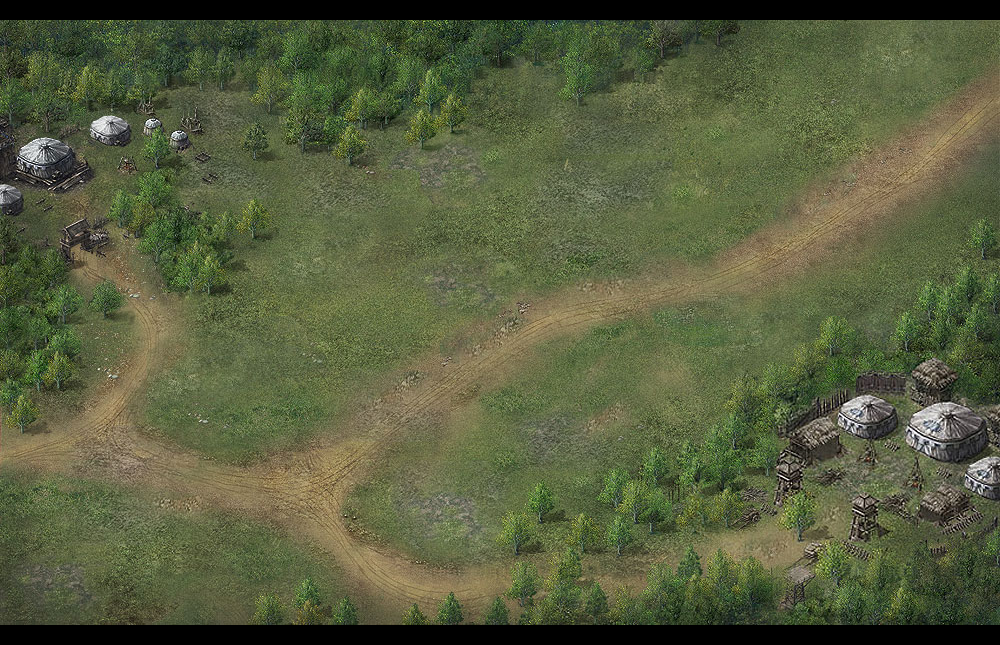
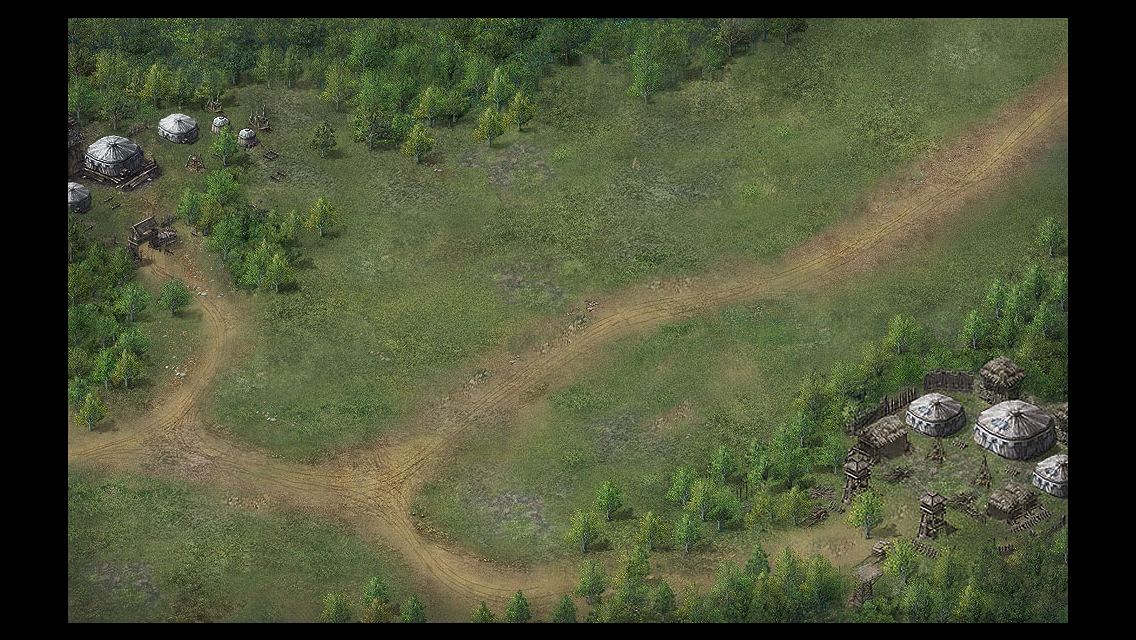
offset position configure

diff --git a/struggle of soldier/Classes/View_GameLand.cpp b/struggle of soldier/Classes/View_GameLand.cpp
@@ -23,6 +23,7 @@ GameLandView::GameLandView()
 	mLayout = NULL;
 	mDebugText = NULL;
 	mMapDragPanel = NULL;
+	mMapBGPanel = NULL;
 	mMapBGImageView = NULL;
 	gGameLandView = this;
 	gpLastSelectGrid = NULL;
@@ -68,7 +69,20 @@ bool GameLandView::init()
 	mBackButton = dynamic_cast<UIButton*>(mLayout->getChildByName("mBackButton"));
 	mDebugText = dynamic_cast<UITextArea*>(mLayout->getChildByName("mDebugText"));
 	mMapDragPanel = dynamic_cast<UIDragPanel*>(mLayout->getChildByName("mMapDragPanel"));
+	mMapBGPanel = dynamic_cast<UIPanel*>(mLayout->getChildByName("mMapBGPanel"));
 	mMapBGImageView = dynamic_cast<UIImageView*>(mLayout->getChildByName("mMapBGImageView"));
+
+	cocos2d::Size viewSize = cocos2d::Director::getInstance()->getVisibleSize();
+	mMapDragPanel->setSize(viewSize);
+
+	lua_State* L = LuaEngine::getInstance()->getLuaStack()->getLuaState();
+	CCPoint displayOffPos(0, 0);
+	if(tolua_getGlobalUserData_ByFieldName(L, "__LUADeviceOffsetPos", displayOffPos))
+	{
+		CCPoint offPos(-displayOffPos.x, -displayOffPos.y);
+		mMapDragPanel->setPosition(offPos);
+		mBackButton->setPosition(offPos);
+	}
 	mBackButton->addReleaseEvent(this, coco_releaseselector(GameLandView::onBackBtnTouch));
 	mMapBGImageView->addReleaseEvent(this, coco_releaseselector(GameLandView::onMapTouched));
 	mMapDragPanel->addEventListener(this, dragpaneleventselector(GameLandView::onMapPanelDragEvent));

diff --git a/struggle of soldier/Classes/RootSceneView.cpp b/struggle of soldier/Classes/RootSceneView.cpp
@@ -1,5 +1,6 @@
 #include "RootSceneView.h"
 #include "ViewModelManager.h"
+#include "luaext/LuaHelper.h"
 
 RootSceneView::RootSceneView(void)
 {
@@ -23,6 +24,12 @@ void RootSceneView::onEnterTransitionDidFinish()
 	pRootPanel->Position = cocos2d::CCPoint(panelSize.width / 2.0f, panelSize.height / 2.0f);
 	cocos2d::Size thisSize = cocos2d::Director::getInstance()->getVisibleSize();
 	cocos2d::Sprite* pBgPic = cocos2d::Sprite::create("picture/background/3285-1.png");
+	lua_State* L = LuaEngine::getInstance()->getLuaStack()->getLuaState();
+	CCPoint displayOffPos(0, 0);
+	if(tolua_getGlobalUserData_ByFieldName(L, "__LUADeviceOffsetPos", displayOffPos))
+	{
+		//pBgPic->setPosition(displayOffPos);
+	}
 	pRootPanel->addChild(pBgPic);
 	this->addChild(pRootPanel);
 

diff --git a/struggle of soldier/Classes/View_GameLand.h b/struggle of soldier/Classes/View_GameLand.h
@@ -39,6 +39,7 @@ public:
 	cocos2d::extension::UIButton* mBackButton;
 	cocos2d::extension::UITextArea* mDebugText;
 	cocos2d::extension::UIDragPanel* mMapDragPanel;
+	cocos2d::extension::UIPanel* mMapBGPanel;
 	cocos2d::extension::UIImageView* mMapBGImageView;
 	cocos2d::extension::UIWidget* mGridsParent;
 	std::map<cocos2d::extension::UIWidget*, LandTreeGridPTR> mGridRenderList;

diff --git a/struggle of soldier/proj.win32/main.cpp b/struggle of soldier/proj.win32/main.cpp
@@ -33,7 +33,7 @@ int APIENTRY _tWinMain(HINSTANCE hInstance,
 	ViewModelManager* pModelMgr = ViewModelManager::point();
 	pModelMgr->initWithAppStart(&app);
 
-    int ret = app.runApp(960, 640, "struggle of soldier app");
+    int ret = app.runApp(1136, 640, "struggle of soldier app");
 	while(true)
 	{
 		pModelMgr->modelLoop(0);
